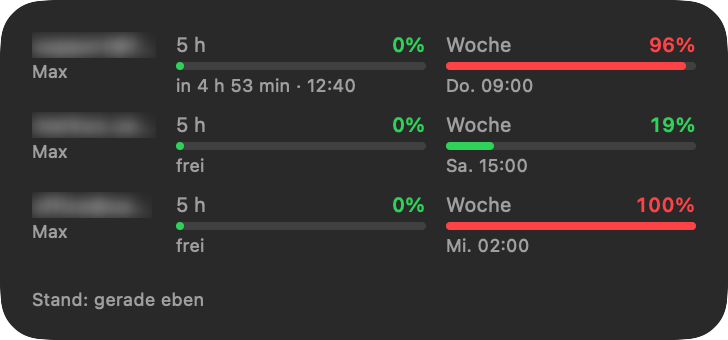
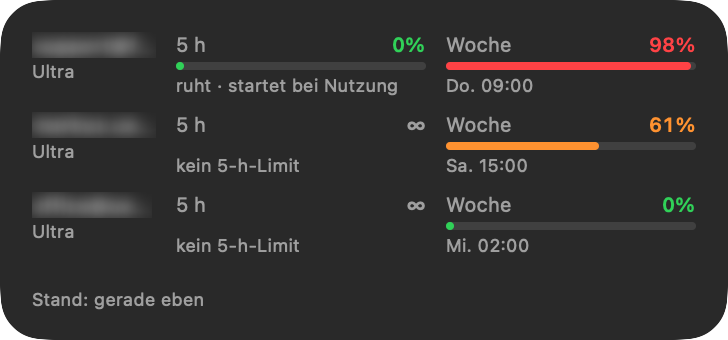
Ultra-Pläne: kein 5-h-Limit anzeigen, Planname aus Rate-Limit-Stufe
- Fehlendes five_hour = kein 5-h-Limit (verifiziertes Ultra), statt 0 %
- Ruhendes 5-h-Fenster (ohne resets_at) als „ruht · startet bei Nutzung“
- Hinweis auf vorläufiges 5-h-Limit bei noch nicht verifiziertem Ultra
- Planname aus organizationRateLimitTier (max_20x → Ultra, max_5x → Max)
- Menüleiste zeigt das engste Limit (max aus 5 h und Woche)

diff --git a/Shared/WidgetViews.swift b/Shared/WidgetViews.swift
@@ -40,7 +40,7 @@ struct UsageWidgetView: View {
                         if u.error != nil && u.session == nil { Image(systemName: "exclamationmark.triangle").font(.caption2).foregroundStyle(.orange) }
                     }
                     HStack(spacing: 6) {
-                        MiniStat(label: "5h", window: u.sessionOrFree)
+                        MiniStat(label: "5h", window: u.session, noLimit: u.hasNoSessionLimit)
                         MiniStat(label: "W", window: u.weekly)
                     }
                     if let r = u.session?.resetsAt, r > entry.date {
@@ -61,7 +61,7 @@ struct UsageWidgetView: View {
                         if let p = u.plan { Text(p.capitalized).font(.system(size: 9)).foregroundStyle(.secondary) }
                     }
                     .frame(width: 62, alignment: .leading)
-                    WindowCell(window: u.sessionOrFree, fallback: "5 h", now: entry.date)
+                    WindowCell(window: u.session, fallback: "5 h", now: entry.date, noLimit: u.hasNoSessionLimit)
                     WindowCell(window: u.weekly, fallback: "Woche", now: entry.date)
                 }
             }
@@ -81,7 +81,7 @@ struct UsageWidgetView: View {
                         if let err = u.error { Text(err).font(.system(size: 9)).foregroundStyle(.orange).lineLimit(1) }
                     }
                     HStack(spacing: 10) {
-                        WindowCell(window: u.sessionOrFree, fallback: "5 h", now: entry.date)
+                        WindowCell(window: u.session, fallback: "5 h", now: entry.date, noLimit: u.hasNoSessionLimit)
                         WindowCell(window: u.weekly, fallback: "Woche", now: entry.date)
                     }
                     ForEach(u.modelWeekly, id: \.label) { w in
@@ -107,16 +107,17 @@ struct UsageWidgetView: View {
 private struct MiniStat: View {
     let label: String
     let window: UsageWindow?
+    var noLimit = false
 
     var body: some View {
         VStack(alignment: .leading, spacing: 2) {
             HStack(spacing: 2) {
                 Text(label).font(.system(size: 9)).foregroundStyle(.secondary)
-                Text(window.map { UsageFormat.percent($0.usedPercent) } ?? "–")
+                Text(noLimit ? "∞" : window.map { UsageFormat.percent($0.usedPercent) } ?? "–")
                     .font(.caption.weight(.semibold)).monospacedDigit()
                     .foregroundStyle(window.map { UsageFormat.color($0.usedPercent) } ?? .secondary)
             }
-            UsageBar(percent: window?.usedPercent ?? 0, height: 3)
+            UsageBar(percent: window?.usedPercent ?? 0, height: 3).opacity(noLimit ? 0 : 1)
         }
     }
 }
@@ -125,18 +126,19 @@ private struct WindowCell: View {
     let window: UsageWindow?
     let fallback: String
     let now: Date
+    var noLimit = false
 
     var body: some View {
         VStack(alignment: .leading, spacing: 2) {
             HStack {
                 Text(window?.label ?? fallback).font(.system(size: 10)).foregroundStyle(.secondary)
                 Spacer()
-                Text(window.map { UsageFormat.percent($0.usedPercent) } ?? "–")
+                Text(noLimit ? "∞" : window.map { UsageFormat.percent($0.usedPercent) } ?? "–")
                     .font(.caption.weight(.semibold)).monospacedDigit()
                     .foregroundStyle(window.map { UsageFormat.color($0.usedPercent) } ?? .secondary)
             }
-            UsageBar(percent: window?.usedPercent ?? 0, height: 4)
-            Text(window.map { $0.resetsAt == nil ? "frei" : UsageFormat.reset($0.resetsAt, now: now) } ?? "–")
+            UsageBar(percent: window?.usedPercent ?? 0, height: 4).opacity(noLimit ? 0 : 1)
+            Text(noLimit ? "kein 5-h-Limit" : window.map { $0.resetsAt == nil ? "ruht · startet bei Nutzung" : UsageFormat.reset($0.resetsAt, now: now) } ?? "–")
                 .font(.system(size: 9)).foregroundStyle(.secondary).lineLimit(1)
         }
     }
@@ -146,7 +148,7 @@ extension UsageSnapshot {
     static var preview: UsageSnapshot {
         let now = Date()
         func acc(_ id: String, _ name: String, _ s: Double, _ w: Double) -> AccountUsage {
-            AccountUsage(id: id, name: name, shortName: String(name.prefix(1)), plan: "max",
+            AccountUsage(id: id, name: name, shortName: String(name.prefix(1)), plan: "Ultra",
                          session: UsageWindow(label: "5 h", usedPercent: s, resetsAt: now.addingTimeInterval(7800)),
                          weekly: UsageWindow(label: "Woche", usedPercent: w, resetsAt: now.addingTimeInterval(3 * 86400)),
                          updatedAt: now)

diff --git a/App/UsageStore.swift b/App/UsageStore.swift
@@ -54,7 +54,7 @@ final class UsageStore: ObservableObject {
 
     var menuBarTitle: String {
         orderedUsage.map { u in
-            let pct = u.sessionOrFree.map { "\(Int($0.usedPercent.rounded()))" } ?? (u.error != nil ? "!" : "–")
+            let pct = u.bindingPercent.map { "\(Int($0.rounded()))" } ?? (u.error != nil ? "!" : "–")
             return "\(u.shortName) \(pct)"
         }.joined(separator: " · ")
     }
@@ -104,7 +104,7 @@ final class UsageStore: ObservableObject {
         u.name = a.name
         u.shortName = shortName
         u.email = a.email
-        u.plan = a.plan
+        u.plan = planName(configDir: a.configDir) ?? a.plan.map(\.capitalized)
         guard var tokens = TokenStore.load(a.id) else {
             u.error = "Kein Login gespeichert – Account neu hinzufügen"
             return (a.id, u, nil)
@@ -138,6 +138,20 @@ final class UsageStore: ObservableObject {
             u.error = error.localizedDescription
             return (a.id, u, nil)
         }
+    }
+
+    /// Planname aus der Rate-Limit-Stufe in `<configDir>/.claude.json` (keine Secrets).
+    /// Seit 30.10.2026: Max 20x → „Ultra“, Max 5x → „Max“.
+    nonisolated private static func planName(configDir: String) -> String? {
+        let url = URL(fileURLWithPath: configDir).appendingPathComponent(".claude.json")
+        guard let data = try? Data(contentsOf: url),
+              let root = try? JSONSerialization.jsonObject(with: data) as? [String: Any],
+              let acc = root["oauthAccount"] as? [String: Any] else { return nil }
+        let tier = ((acc["userRateLimitTier"] as? String) ?? (acc["organizationRateLimitTier"] as? String) ?? "").lowercased()
+        if tier.contains("ultra") || tier.contains("max_20x") { return "Ultra" }
+        if tier.contains("max") { return "Max" }
+        if tier.contains("pro") { return "Pro" }
+        return nil
     }
 
     private func publish() {

diff --git a/App/MenuBarView.swift b/App/MenuBarView.swift
@@ -87,12 +87,15 @@ private struct AccountCard: View {
                 VStack(alignment: .leading, spacing: 6) {
                     if let s = usage.session {
                         WindowRow(window: s, now: ctx.date, prominent: true)
-                    } else if usage.updatedAt != nil {
-                        // Kein laufendes 5-h-Fenster: startet erst mit der nächsten Nachricht.
+                        if usage.plan == "Ultra" {
+                            Text("Vorläufiges 5-h-Limit – Konto noch nicht verifiziert")
+                                .font(.caption2).foregroundStyle(.secondary)
+                        }
+                    } else if usage.hasNoSessionLimit {
                         HStack {
                             Text("5 h").font(.callout)
                             Spacer()
-                            Text("frei · startet bei Nutzung").font(.caption).foregroundStyle(.secondary)
+                            Text("kein Limit").font(.caption).foregroundStyle(.secondary)
                         }
                     }
                     if let w = usage.weekly { WindowRow(window: w, now: ctx.date, prominent: true) }
@@ -135,7 +138,7 @@ private struct WindowRow: View {
                     .foregroundStyle(UsageFormat.color(window.usedPercent))
             }
             UsageBar(percent: window.usedPercent, height: prominent ? 6 : 4)
-            Text("Reset \(UsageFormat.reset(window.resetsAt, now: now))")
+            Text(window.resetsAt == nil ? "ruht · startet bei Nutzung" : "Reset \(UsageFormat.reset(window.resetsAt, now: now))")
                 .font(.caption2).foregroundStyle(.secondary)
         }
     }

diff --git a/Shared/Models.swift b/Shared/Models.swift
@@ -32,10 +32,12 @@ struct AccountUsage: Codable, Hashable, Identifiable {
 }
 
 extension AccountUsage {
-    /// Kein 5-h-Fenster in der Antwort = derzeit keins aktiv (0 %), sofern die Abfrage geklappt hat.
-    var sessionOrFree: UsageWindow? {
-        session ?? (updatedAt != nil ? UsageWindow(label: "5 h", usedPercent: 0, resetsAt: nil) : nil)
-    }
+    /// Kein `five_hour` in der Antwort = Konto hat kein 5-h-Limit (verifiziertes Ultra seit 30.10.2026).
+    /// Ein ruhendes 5-h-Fenster kommt dagegen als Objekt mit 0 % und ohne `resets_at`.
+    var hasNoSessionLimit: Bool { session == nil && updatedAt != nil }
+
+    /// Engstes Limit (höchste Auslastung aus 5 h und Woche) – Wert für die Menüleiste.
+    var bindingPercent: Double? { [session?.usedPercent, weekly?.usedPercent].compactMap { $0 }.max() }
 }
 
 struct UsageSnapshot: Codable {

diff --git a/README.md b/README.md
@@ -33,7 +33,9 @@ und Modell-Wochenlimits.
 
 ## Funktionen
 
-- Menüleiste: Kurzname + aktuelle 5-h-Auslastung je Account, z. B. `S 42 · M 0 · O 7`
+- Menüleiste: Kurzname + engstes Limit je Account (höherer Wert aus 5 h und Woche), z. B. `S 98 · M 61 · O 0`
+- Pläne seit 30.10.2026: **Ultra** (ehem. Max 20x) hat für verifizierte Konten **kein 5-h-Limit** mehr – angezeigt als „∞ / kein 5-h-Limit“;
+  solange das Konto noch nicht verifiziert ist, gilt ein vorläufiges 5-h-Limit (wird angezeigt). **Max** (ehem. Max 5x) und **Pro** behalten es.
 - Pro Account: 5 h, Woche, Modell-Wochenlimits (z. B. Fable), Extra-Usage – mit Balken und Reset-Zeit
 - Widget (klein / mittel / groß) für Schreibtisch und Mitteilungszentrale
 - Abfrage alle 5 min und nach dem Aufwachen; respektiert Rate-Limits (`retry-after`)
